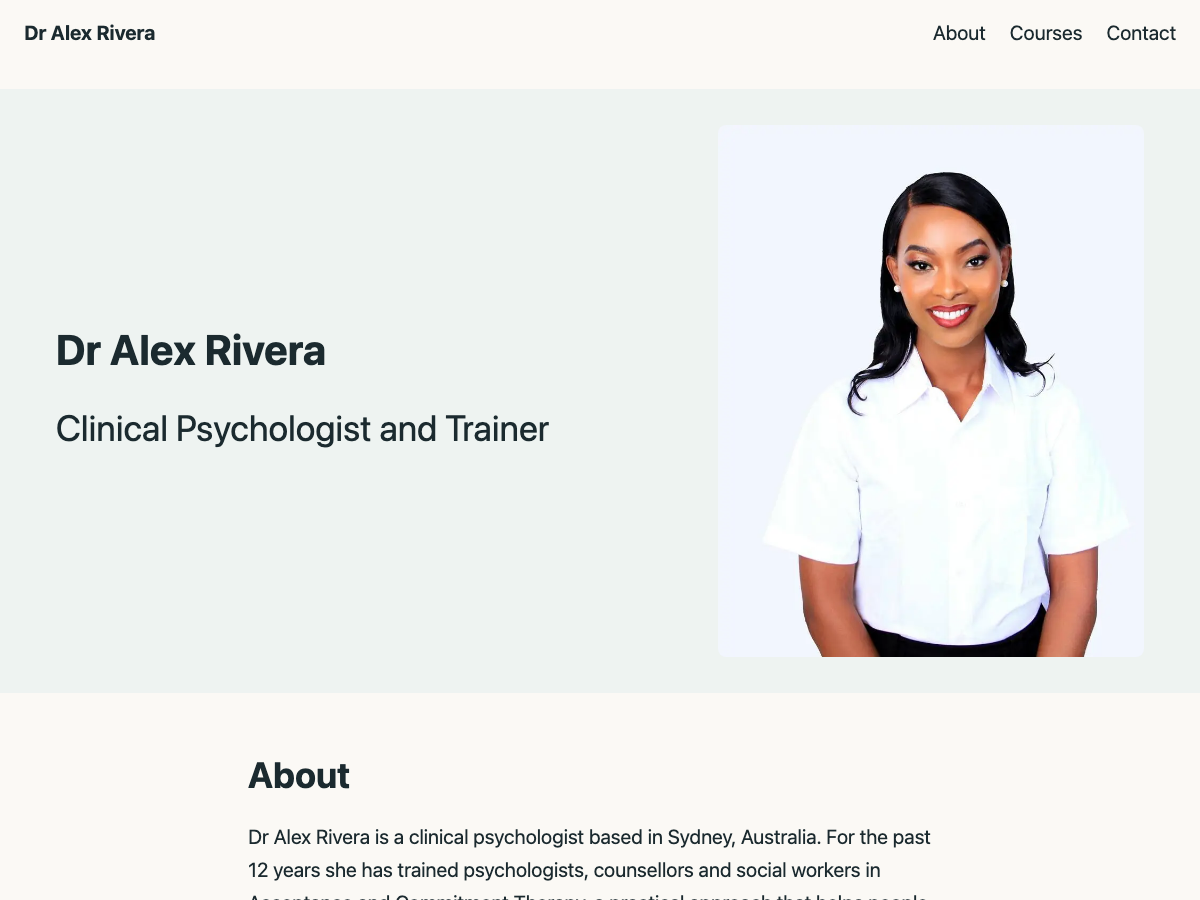
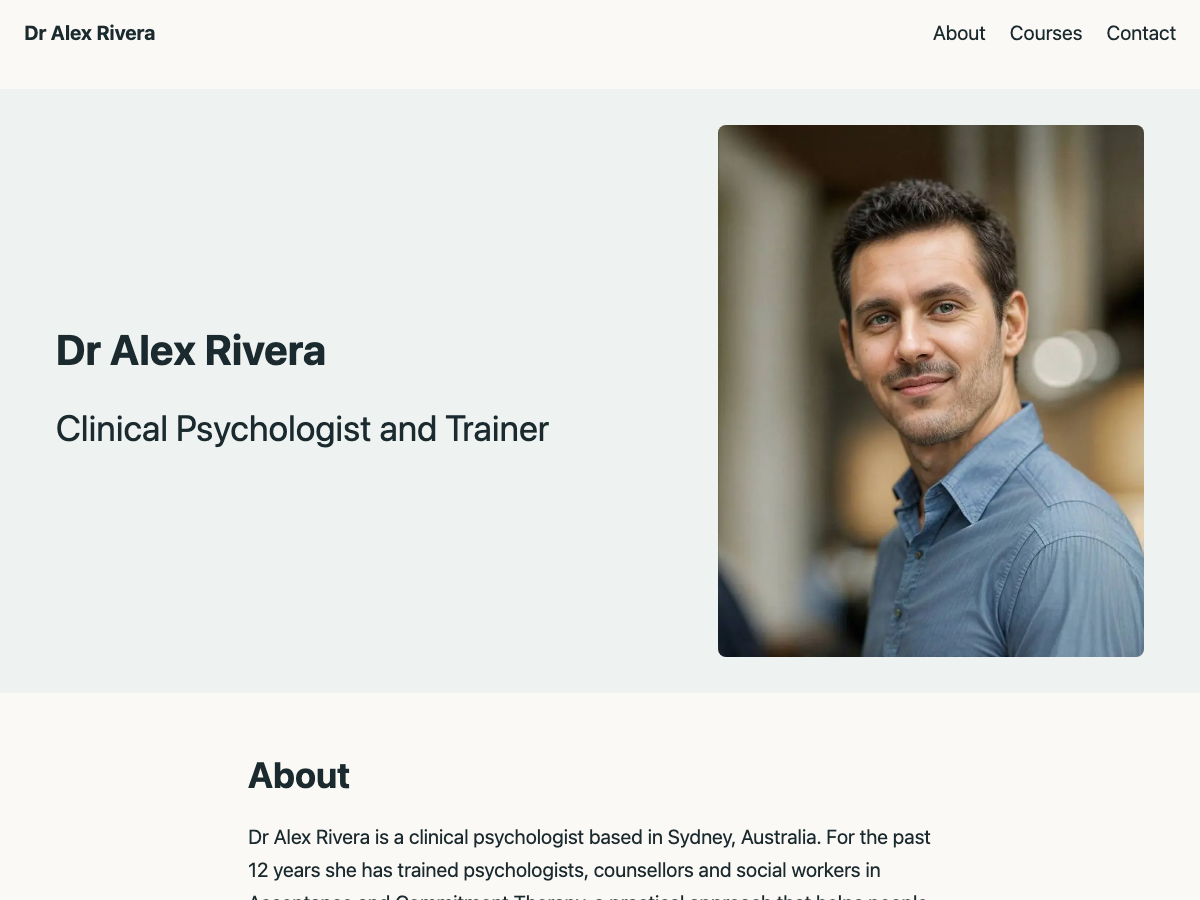
fix: courses error in the editor; new portrait (male) in all image sizes and screenshot
The course card groups had layout type 'flow', which is not a valid layout
type, so the block editor threw 'getOrientation of undefined' and showed
'This block has encountered an error' on every card. Removed it.

Changed region(s): [[0.5858, 0.1244, 0.9558, 0.7467]]

diff --git a/inc/data.php b/inc/data.php
@@ -22,7 +22,7 @@ function psychwire_profile(): array {
 		'title'     => 'Clinical Psychologist and Trainer',
 		'bio'       => 'Dr Alex Rivera is a clinical psychologist based in Sydney, Australia. For the past 12 years she has trained psychologists, counsellors and social workers in Acceptance and Commitment Therapy, a practical approach that helps people handle difficult thoughts and feelings and act on what matters to them.',
 		'email'     => 'hello@example.com',
-		'photo_alt' => 'Dr Alex Rivera smiling, wearing a white shirt',
+		'photo_alt' => 'Dr Alex Rivera smiling, wearing a blue shirt',
 		'photo'     => get_theme_file_uri( 'assets/images/dr-rivera-800.jpg' ),
 		'social'    => get_theme_file_uri( 'assets/images/social.jpg' ),
 		'locality'  => 'Sydney',

diff --git a/patterns/courses.php b/patterns/courses.php
@@ -18,7 +18,7 @@ $courses = psychwire_courses();
 	<!-- wp:group {"layout":{"type":"grid","minimumColumnWidth":"16rem"}} -->
 	<div class="wp-block-group">
 <?php foreach ( $courses as $course ) : ?>
-		<!-- wp:group {"tagName":"article","anchor":"course-<?php echo esc_attr( $course['slug'] ); ?>","className":"course-card","layout":{"type":"flow"}} -->
+		<!-- wp:group {"tagName":"article","anchor":"course-<?php echo esc_attr( $course['slug'] ); ?>","className":"course-card"} -->
 		<article id="course-<?php echo esc_attr( $course['slug'] ); ?>" class="wp-block-group course-card">
 			<!-- wp:heading {"level":3} -->
 			<h3 class="wp-block-heading"><?php echo esc_html( $course['name'] ); ?></h3>

diff --git a/README.md b/README.md
@@ -142,4 +142,4 @@ During development WordPress caches the list of pattern files. If you add a patt
 
 ## Credits and licence
 
-Photo: portrait by Joecalih on [Unsplash](https://unsplash.com/photos/a-young-professional-woman-smiling-against-a-white-background-1l6UeCc9P9o), used under the Unsplash License. Cropped and resized. Theme code: GPL-2.0-or-later.
+Photo: portrait by Danny Postma on [Unsplash](https://unsplash.com/photos/a-man-in-a-blue-shirt-smiling-at-the-camera-zNxOw2JFNKs), used under the Unsplash License. Cropped and resized. Theme code: GPL-2.0-or-later.
